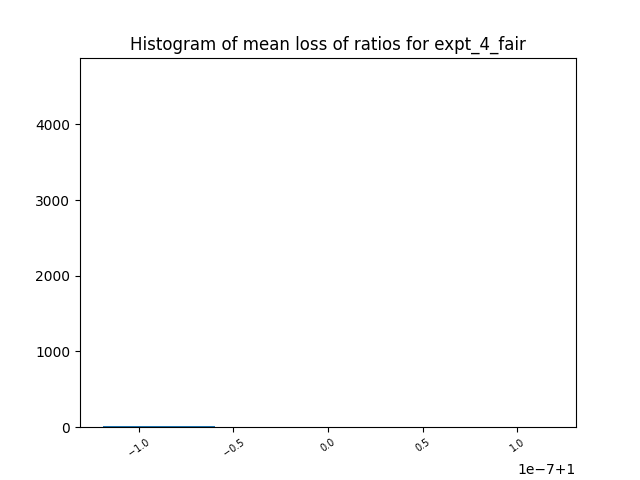
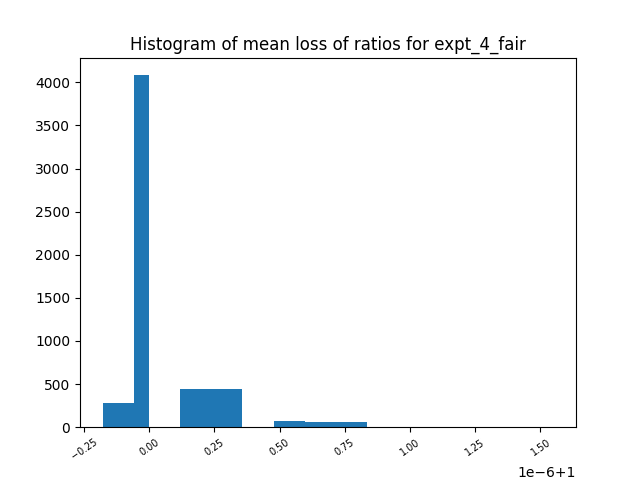
modified:   create_plots.py

diff --git a/myapp2/adversarial_sample.py b/myapp2/adversarial_sample.py
@@ -71,9 +71,9 @@ def sample_perturbation(data_point, regularizer = 1e2, learning_rate = 5e-2, num
     for _ in range(num_steps):
         with tf.GradientTape() as g:
             g.watch(x)
-            prob = graph(utils.unprotected_direction(x, sensetive_directions))
+            prob = graph(x)
             perturb = utils.unprotected_direction(x-x_start, sensetive_directions)
-            loss = utils.EntropyLoss(y, prob)/regularizer- tf.norm(perturb)
+            loss = utils.EntropyLoss(y, prob)  - regularizer * tf.norm(perturb)
 
         gradient = g.gradient(loss, x)
         x = x + learning_rate * utils.protected_direction(gradient, sensetive_directions)

diff --git a/myapp2/adversarial_sample_fair.py b/myapp2/adversarial_sample_fair.py
@@ -72,7 +72,7 @@ def sample_perturbation(data_point, regularizer = 1e2, learning_rate = 5e-2, num
             g.watch(x)
             prob = graph(utils.unprotected_direction(x, sensetive_directions))
             perturb = utils.unprotected_direction(x-x_start, sensetive_directions)
-            loss = utils.EntropyLoss(y, prob)/ regularizer - tf.norm(perturb)
+            loss = utils.EntropyLoss(y, prob) - regularizer * tf.norm(perturb)
 
         gradient = g.gradient(loss, x)
         x = x + learning_rate * utils.protected_direction(gradient, sensetive_directions)

diff --git a/myapp2/create_plots.py b/myapp2/create_plots.py
@@ -56,7 +56,7 @@ m = test_ratio.shape[0]
 
 
 plt.hist(test_ratio)
-plt.savefig(f'outcome/histogram-prop{expt}.pdf')
+plt.savefig(f'adversarial-points/histogram-prop{expt}.pdf')
 plt.close()
 
 ratio_means = [ratio_mean(m) for _ in range(5000)]
